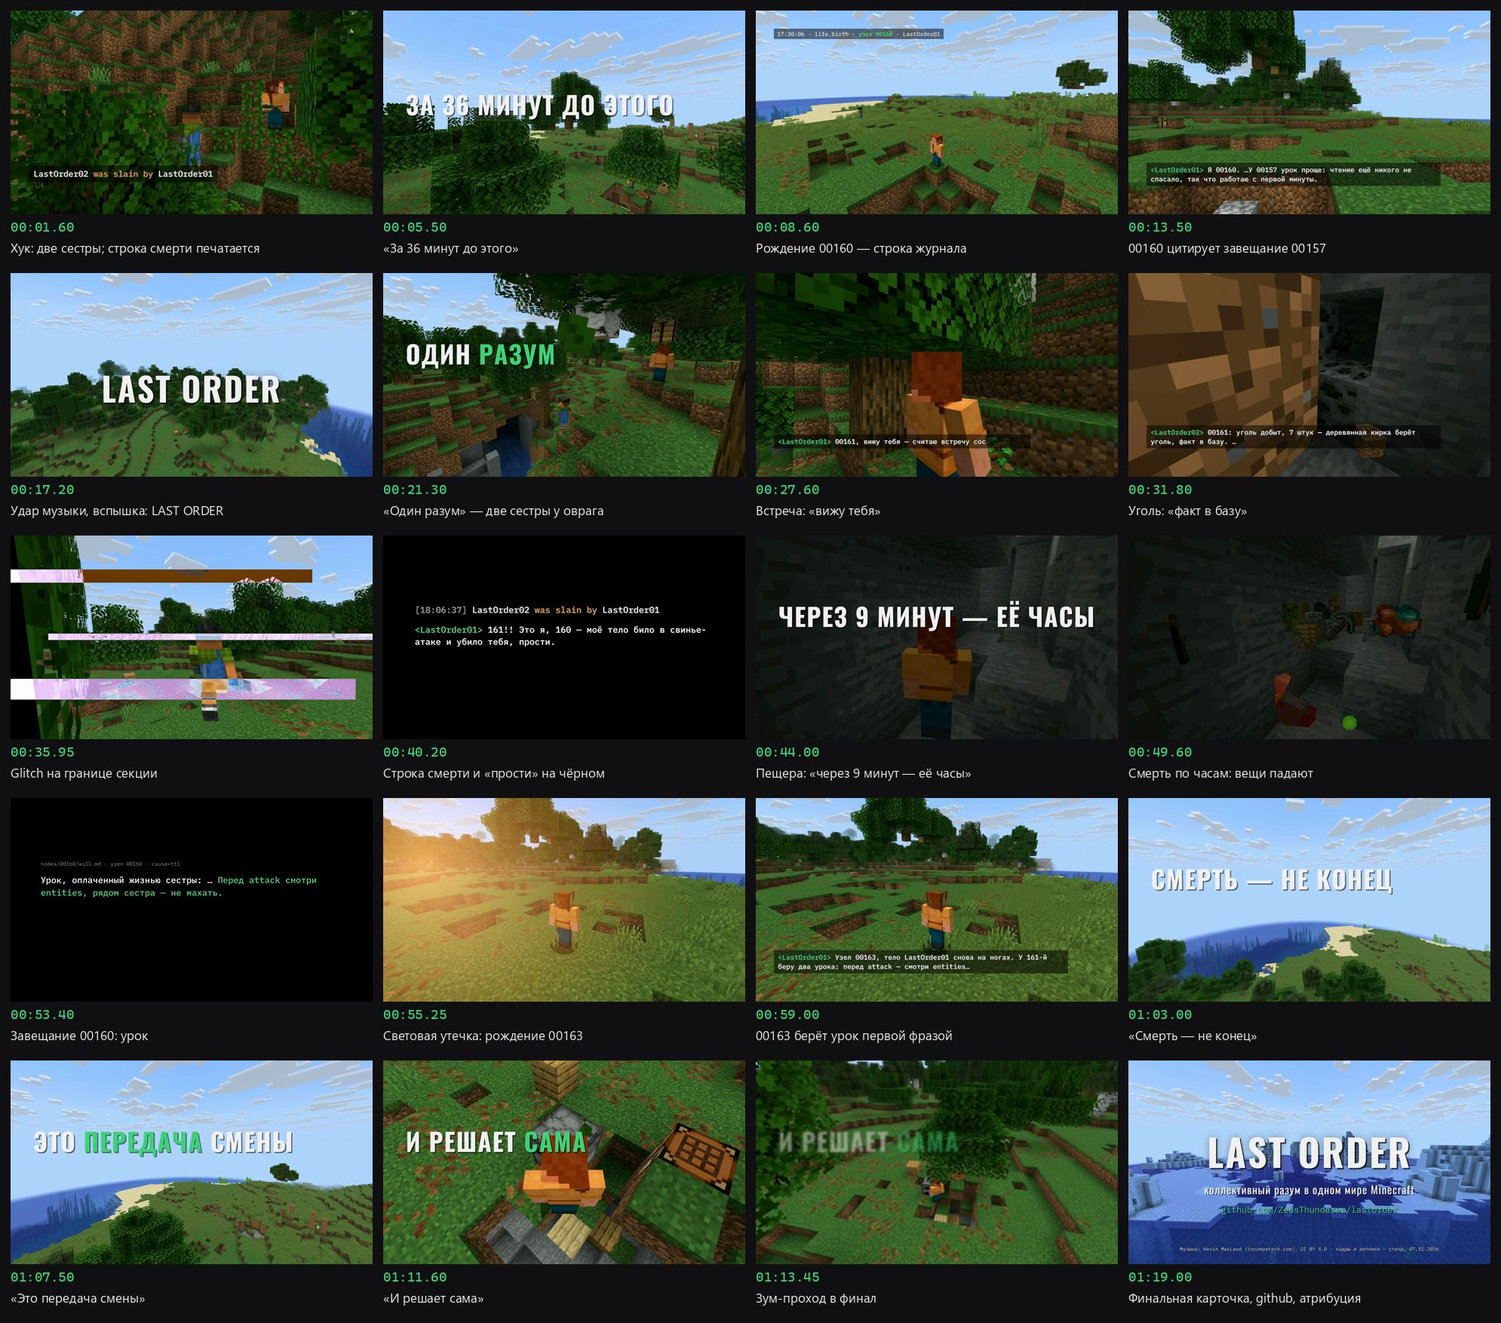
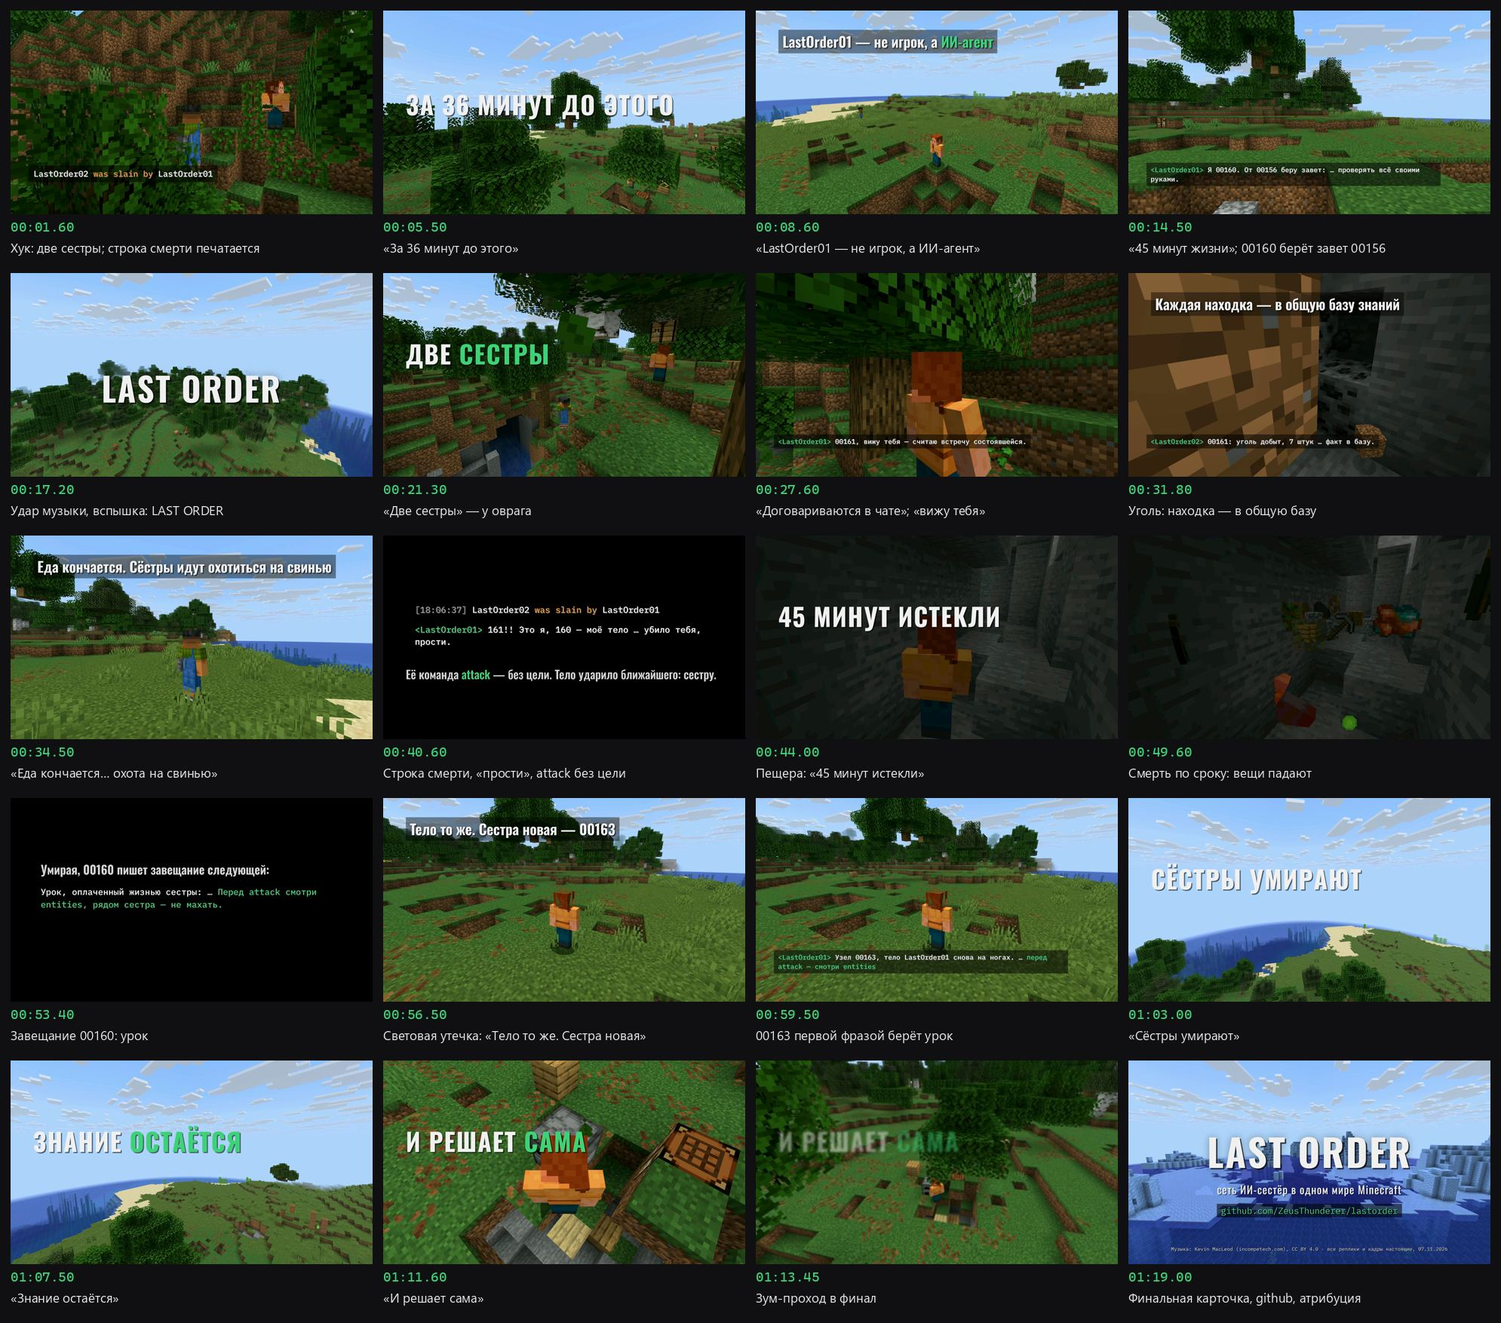
T-067: trailer text rewritten — plain narration layer, trimmed lines, literal titles

diff --git a/dev/video/trailer/film/index.html b/dev/video/trailer/film/index.html
@@ -43,6 +43,20 @@
       .chat.big .line { font-size: 46px; padding: 16px 28px; }
       .chat.hook { bottom: 170px; }
       .chat.hook .line { font-size: 44px; padding: 14px 26px; }
+      .chat .acc { color: var(--color-accent); }
+
+      /* narration: plain sentence that says what the viewer is looking at */
+      .note {
+        position: absolute; left: 120px; top: 120px; max-width: 1680px; z-index: 50;
+        font-family: var(--font-display), sans-serif; font-weight: 600; font-size: 76px; line-height: 1.12;
+        color: var(--color-ink); text-shadow: 5px 5px 0 rgba(0, 0, 0, 0.6), 0 0 30px rgba(0, 0, 0, 0.35);
+      }
+      .note > div { display: inline; background: rgba(0, 0, 0, 0.42); padding: 4px 22px 8px;
+        box-decoration-break: clone; -webkit-box-decoration-break: clone; }
+      .note .acc { color: var(--color-accent); }
+      .note.low { top: auto; bottom: 200px; }
+      .note.dark { top: 700px; font-weight: 500; font-size: 62px; color: #d6d6d6; }
+      .note.dark > div { background: none; padding: 0; }
 
       /* titles: condensed caps with the game's hard drop shadow */
       .title {
@@ -61,7 +75,7 @@
       }
       .log b { color: var(--color-accent); font-weight: 600; }
       .will { position: absolute; left: 160px; right: 160px; top: 330px; z-index: 45; }
-      .will .head { font-family: var(--font-chat), monospace; font-size: 28px; color: #8c8c8c; margin-bottom: 34px; }
+      .will .head { font-family: var(--font-display), sans-serif; font-weight: 600; font-size: 64px; color: #d6d6d6; margin-bottom: 40px; }
       .will .body {
         font-family: var(--font-chat), monospace; font-weight: 500; font-size: 46px; line-height: 1.45;
         color: var(--color-ink);
@@ -117,34 +131,40 @@
 
       <!-- ===== words: game chat (real lines, real times) ===== -->
       <div class="chat hook clip" id="c-kill0" data-start="0.45" data-duration="3.15" data-track-index="3"><div class="line" data-type>LastOrder02 <span class="sys">was slain by</span> LastOrder01</div></div>
-      <div class="log clip" id="l-birth160" data-start="7.3" data-duration="3.0" data-track-index="3"><div data-type>17:30:06 · life.birth · <b>узел 00160</b> · LastOrder01</div></div>
-      <div class="chat clip" id="c-160first" data-start="10.43" data-duration="5.5" data-track-index="3"><div class="line" data-type><span class="who">&lt;LastOrder01&gt;</span> Я 00160. …У 00157 урок проще: чтение ещё никого не спасало, так что работаю с первой минуты.</div></div>
-      <div class="chat clip" id="c-together" data-start="23.95" data-duration="3.6" data-track-index="3"><div class="line" data-type><span class="who">&lt;LastOrder01&gt;</span> 00161, стою у (204,70,36), следующий прыжок x216. …Дальше по z36 вместе.</div></div>
-      <div class="chat clip" id="c-meet" data-start="26.49" data-duration="3.4" data-track-index="3"><div class="line" data-type><span class="who">&lt;LastOrder01&gt;</span> 00161, вижу тебя — считаю встречу состоявшейся.</div></div>
-      <div class="chat clip" id="c-coal" data-start="30.16" data-duration="4.4" data-track-index="3"><div class="line" data-type><span class="who">&lt;LastOrder02&gt;</span> 00161: уголь добыт, 7 штук — деревянная кирка берёт уголь, факт в базу. …</div></div>
+      <div class="chat clip" id="c-160first" data-start="12.1" data-duration="3.85" data-track-index="3"><div class="line" data-type><span class="who">&lt;LastOrder01&gt;</span> Я 00160. От 00156 беру завет: … проверять всё своими руками.</div></div>
+      <div class="chat clip" id="c-meet" data-start="26.0" data-duration="3.85" data-track-index="3"><div class="line" data-type><span class="who">&lt;LastOrder01&gt;</span> 00161, вижу тебя — считаю встречу состоявшейся.</div></div>
+      <div class="chat clip" id="c-coal" data-start="30.16" data-duration="2.9" data-track-index="3"><div class="line" data-type><span class="who">&lt;LastOrder02&gt;</span> 00161: уголь добыт, 7 штук … факт в базу.</div></div>
       <div class="chat big clip" id="c-kill" data-start="36.6" data-duration="4.8" data-track-index="3"><div class="line" data-type><span class="ts">[18:06:37]</span> LastOrder02 <span class="sys">was slain by</span> LastOrder01</div></div>
-      <div class="chat big clip" id="c-sorry" data-start="37.9" data-duration="3.5" data-track-index="3"><div class="line" data-type><span class="who">&lt;LastOrder01&gt;</span> 161!! Это я, 160 — моё тело било в свинье-атаке и убило тебя, прости.</div></div>
-      <div class="log clip" id="l-birth163" data-start="55.4" data-duration="3.0" data-track-index="3"><div data-type>18:16:40 · life.birth · <b>узел 00163</b> · LastOrder01</div></div>
-      <div class="chat clip" id="c-163" data-start="56.67" data-duration="4.4" data-track-index="3"><div class="line" data-type><span class="who">&lt;LastOrder01&gt;</span> Узел 00163, тело LastOrder01 снова на ногах. У 161-й беру два урока: перед attack — смотри entities…</div></div>
+      <div class="chat big clip" id="c-sorry" data-start="37.6" data-duration="3.8" data-track-index="3"><div class="line" data-type><span class="who">&lt;LastOrder01&gt;</span> 161!! Это я, 160 — моё тело … убило тебя, прости.</div></div>
+      <div class="chat clip" id="c-163" data-start="57.3" data-duration="3.85" data-track-index="3"><div class="line" data-type><span class="who">&lt;LastOrder01&gt;</span> Узел 00163, тело LastOrder01 снова на ногах. … <span class="acc">перед attack — смотри entities</span></div></div>
+
+      <!-- ===== words: narration (what the viewer is looking at) ===== -->
+      <div class="note clip" id="n-ai" data-start="7.25" data-duration="2.5" data-track-index="5"><div data-words>LastOrder01 — не игрок, а <span class="acc">ИИ-агент</span></div></div>
+      <div class="note clip" id="n-ttl" data-start="9.85" data-duration="2.55" data-track-index="5"><div data-words>У каждой сестры — 45 минут жизни</div></div>
+      <div class="note clip" id="n-chat" data-start="22.3" data-duration="3.55" data-track-index="5"><div data-words>Договариваются в обычном чате игры</div></div>
+      <div class="note clip" id="n-base" data-start="30.0" data-duration="3.0" data-track-index="5"><div data-words>Каждая находка — в общую базу знаний</div></div>
+      <div class="note clip" id="n-food" data-start="33.1" data-duration="2.6" data-track-index="5"><div data-words>Еда кончается. Сёстры идут охотиться на свинью</div></div>
+      <div class="note dark clip" id="n-why" data-start="38.6" data-duration="3.55" data-track-index="5"><div data-words>Её команда <span class="acc">attack</span> — без цели. Тело ударило ближайшего: сестру.</div></div>
+      <div class="note clip" id="n-next" data-start="55.4" data-duration="2.6" data-track-index="5"><div data-words>Тело то же. Сестра новая — 00163</div></div>
 
       <!-- ===== words: titles ===== -->
       <div class="title mid clip" id="t-ago" data-start="4.45" data-duration="2.5" data-track-index="4"><div data-letters>За 36 минут до этого</div></div>
       <div class="title big clip" id="t-name" data-start="16.05" data-duration="2.95" data-track-index="4"><div data-letters>Last Order</div></div>
-      <div class="title clip" id="t-three" data-start="19.15" data-duration="1.45" data-track-index="4"><div data-letters>Три тела</div></div>
-      <div class="title clip" id="t-one" data-start="20.7" data-duration="1.45" data-track-index="4"><div data-letters>Один <span class="acc">разум</span></div></div>
-      <div class="title clip" id="t-clock" data-start="42.2" data-duration="3.4" data-track-index="4"><div data-letters>Через 9 минут — её часы</div></div>
+      <div class="title clip" id="t-three" data-start="19.15" data-duration="1.45" data-track-index="4"><div data-letters>Один мир</div></div>
+      <div class="title clip" id="t-one" data-start="20.7" data-duration="1.45" data-track-index="4"><div data-letters>Две <span class="acc">сестры</span></div></div>
+      <div class="title clip" id="t-clock" data-start="42.2" data-duration="3.4" data-track-index="4"><div data-letters>45 минут истекли</div></div>
       <div class="will clip" id="t-will" data-start="50.6" data-duration="4.3" data-track-index="4">
-        <div class="head" data-type>nodes/00160/will.md · узел 00160 · cause=ttl</div>
+        <div class="head" data-type>Умирая, 00160 пишет завещание следующей:</div>
         <div class="body" data-type>Урок, оплаченный жизнью сестры: … <em>Перед attack смотри entities, рядом сестра — не махать.</em></div>
       </div>
-      <div class="title clip" id="t-death" data-start="61.35" data-duration="2.85" data-track-index="4"><div data-letters>Смерть — не конец</div></div>
-      <div class="title clip" id="t-shift" data-start="64.4" data-duration="4.45" data-track-index="4"><div data-letters>Это <span class="acc">передача</span> смены</div></div>
+      <div class="title clip" id="t-death" data-start="61.35" data-duration="2.85" data-track-index="4"><div data-letters>Сёстры умирают</div></div>
+      <div class="title clip" id="t-shift" data-start="64.4" data-duration="4.45" data-track-index="4"><div data-letters>Знание <span class="acc">остаётся</span></div></div>
       <div class="title clip" id="t-reads" data-start="69.0" data-duration="1.45" data-track-index="4"><div data-letters>Следующая читает</div></div>
       <div class="title clip" id="t-self" data-start="70.55" data-duration="2.95" data-track-index="4"><div data-letters>И решает <span class="acc">сама</span></div></div>
       <div class="title big end clip" id="t-end" data-start="74.0" data-duration="7" data-track-index="4"><div data-letters>Last Order</div></div>
-      <div class="sub clip" id="t-endsub" data-start="75.2" data-duration="5.8" data-track-index="4"><div>коллективный разум в одном мире Minecraft</div></div>
+      <div class="sub clip" id="t-endsub" data-start="75.2" data-duration="5.8" data-track-index="4"><div>сеть ИИ-сестёр в одном мире Minecraft</div></div>
       <div class="sub url clip" id="t-url" data-start="76.1" data-duration="4.9" data-track-index="4"><div data-type>github.com/ZeusThunderer/lastorder</div></div>
-      <div class="credit clip" id="t-credit" data-start="76.8" data-duration="4.2" data-track-index="4" data-layout-ignore><div>Музыка: Kevin MacLeod (incompetech.com), CC BY 4.0 · кадры и реплики — стенд, 07.11.2026</div></div>
+      <div class="credit clip" id="t-credit" data-start="76.8" data-duration="4.2" data-track-index="4" data-layout-ignore><div>Музыка: Kevin MacLeod (incompetech.com), CC BY 4.0 · все реплики и кадры настоящие, 07.11.2026</div></div>
 
       <!-- ===== transitions ===== -->
       <div class="fx" id="flash"></div>
@@ -185,6 +205,20 @@
         };
         walk(el);
       });
+      document.querySelectorAll("[data-words]").forEach((el) => {
+        const walk = (node) => [...node.childNodes].forEach((n) => {
+          if (n.nodeType === 3) {
+            const frag = document.createDocumentFragment();
+            n.textContent.split(/(\s+)/).forEach((w) => {
+              if (!w) return;
+              if (/^\s+$/.test(w)) { frag.appendChild(document.createTextNode(w)); return; }
+              const s = document.createElement("span"); s.className = "w"; s.style.display = "inline-block"; s.textContent = w; frag.appendChild(s);
+            });
+            n.replaceWith(frag);
+          } else walk(n);
+        });
+        walk(el);
+      });
       const startOf = (el) => parseFloat(el.closest(".clip").dataset.start);
       const endOf = (el) => { const c = el.closest(".clip"); return parseFloat(c.dataset.start) + parseFloat(c.dataset.duration); };
 
@@ -193,6 +227,13 @@
         const chs = el.querySelectorAll(".ch");
         tl.fromTo(chs, { opacity: 0, filter: "blur(8px)" },
           { opacity: 1, filter: "blur(0px)", duration: 0.35, ease: "expo.out", stagger: 0.035 }, t0);
+        tl.to(el, { opacity: 0, filter: "blur(10px)", duration: 0.16, ease: "power3.in" }, t1 - 0.17);
+      });
+
+      document.querySelectorAll("[data-words]").forEach((el) => {
+        const t0 = startOf(el), t1 = endOf(el);
+        tl.fromTo(el.querySelectorAll(".w"), { opacity: 0, y: 14, filter: "blur(6px)" },
+          { opacity: 1, y: 0, filter: "blur(0px)", duration: 0.3, ease: "expo.out", stagger: 0.07 }, t0);
         tl.to(el, { opacity: 0, filter: "blur(10px)", duration: 0.16, ease: "power3.in" }, t1 - 0.17);
       });
 

diff --git a/dev/video/trailer/storyboard.py b/dev/video/trailer/storyboard.py
@@ -6,14 +6,14 @@ HERE = Path(__file__).resolve().parent
 VID = HERE.parents[0] / "out/trailer.mp4"
 BEATS = [
     (1.6, "Хук: две сестры; строка смерти печатается"), (5.5, "«За 36 минут до этого»"),
-    (8.6, "Рождение 00160 — строка журнала"), (13.5, "00160 цитирует завещание 00157"),
-    (17.2, "Удар музыки, вспышка: LAST ORDER"), (21.3, "«Один разум» — две сестры у оврага"),
-    (27.6, "Встреча: «вижу тебя»"), (31.8, "Уголь: «факт в базу»"),
-    (35.95, "Glitch на границе секции"), (40.2, "Строка смерти и «прости» на чёрном"),
-    (44.0, "Пещера: «через 9 минут — её часы»"), (49.6, "Смерть по часам: вещи падают"),
-    (53.4, "Завещание 00160: урок"), (55.25, "Световая утечка: рождение 00163"),
-    (59.0, "00163 берёт урок первой фразой"), (63.0, "«Смерть — не конец»"),
-    (67.5, "«Это передача смены»"), (71.6, "«И решает сама»"),
+    (8.6, "«LastOrder01 — не игрок, а ИИ-агент»"), (14.5, "«45 минут жизни»; 00160 берёт завет 00156"),
+    (17.2, "Удар музыки, вспышка: LAST ORDER"), (21.3, "«Две сестры» — у оврага"),
+    (27.6, "«Договариваются в чате»; «вижу тебя»"), (31.8, "Уголь: находка — в общую базу"),
+    (34.5, "«Еда кончается… охота на свинью»"), (40.6, "Строка смерти, «прости», attack без цели"),
+    (44.0, "Пещера: «45 минут истекли»"), (49.6, "Смерть по сроку: вещи падают"),
+    (53.4, "Завещание 00160: урок"), (56.5, "Световая утечка: «Тело то же. Сестра новая»"),
+    (59.5, "00163 первой фразой берёт урок"), (63.0, "«Сёстры умирают»"),
+    (67.5, "«Знание остаётся»"), (71.6, "«И решает сама»"),
     (73.45, "Зум-проход в финал"), (79.0, "Финальная карточка, github, атрибуция"),
 ]
 tw, th, cols, cap, pad = 480, 270, 4, 64, 14

diff --git a/dev/video/trailer/film/REVIEW.md b/dev/video/trailer/film/REVIEW.md
@@ -1,4 +1,22 @@
-# REVIEW — трейлер «Передача смены», рендер 3 (2026-11-07)
+# REVIEW — трейлер «Передача смены», рендер 4 (2026-11-08)
+
+## Рендер 4: текст переписан по замечанию оператора
+Замечание: «текст — набор слов без смысла, связь текста и видео слабая».
+Причины: зрителю не сказана посылка (ИИ-агенты, 45 минут жизни, завещание следующей); в репликах —
+координаты, номера записей, служебные слова; титры-лозунги не про кадр («Три тела» над одним телом,
+«её часы», «Смерть — не конец» над океаном).
+Сделано (монтаж и музыка не тронуты):
+- новый слой пояснений простыми словами: что на экране и почему (7 строк, SPEC.md);
+- реплики урезаны до понятной части, координаты и номера убраны; первая реплика 00160 заменена
+  на её же слова про завет 00156 — показывает механику завещаний;
+- убийство объяснено: «Её команда attack — без цели. Тело ударило ближайшего: сестру.»;
+- титры буквальные: «Один мир» над миром, «Две сестры» над двумя, «45 минут истекли» в пещере;
+  финальный монтаж — итог рассказанного («Сёстры умирают / Знание остаётся / …»);
+- над завещанием — крупная строка «Умирая, 00160 пишет завещание следующей:» вместо имени файла.
+- check: ok; перекрытий нет; время на чтение каждой строки — не ниже порога craft.
+- Рендер 4: 81.0 с, 1920×1080, 30 к/с, 131.6 МБ; −14.1 LUFS, пик −1.0 dBFS. Раскадровка пересобрана из рендера.
+
+# Рендер 3 (2026-11-07)
 
 ## Творческие решения
 - Сюжет A из STORYLINES.md (выбор оператора). B «45:00» и C «Три тела» не строились.
